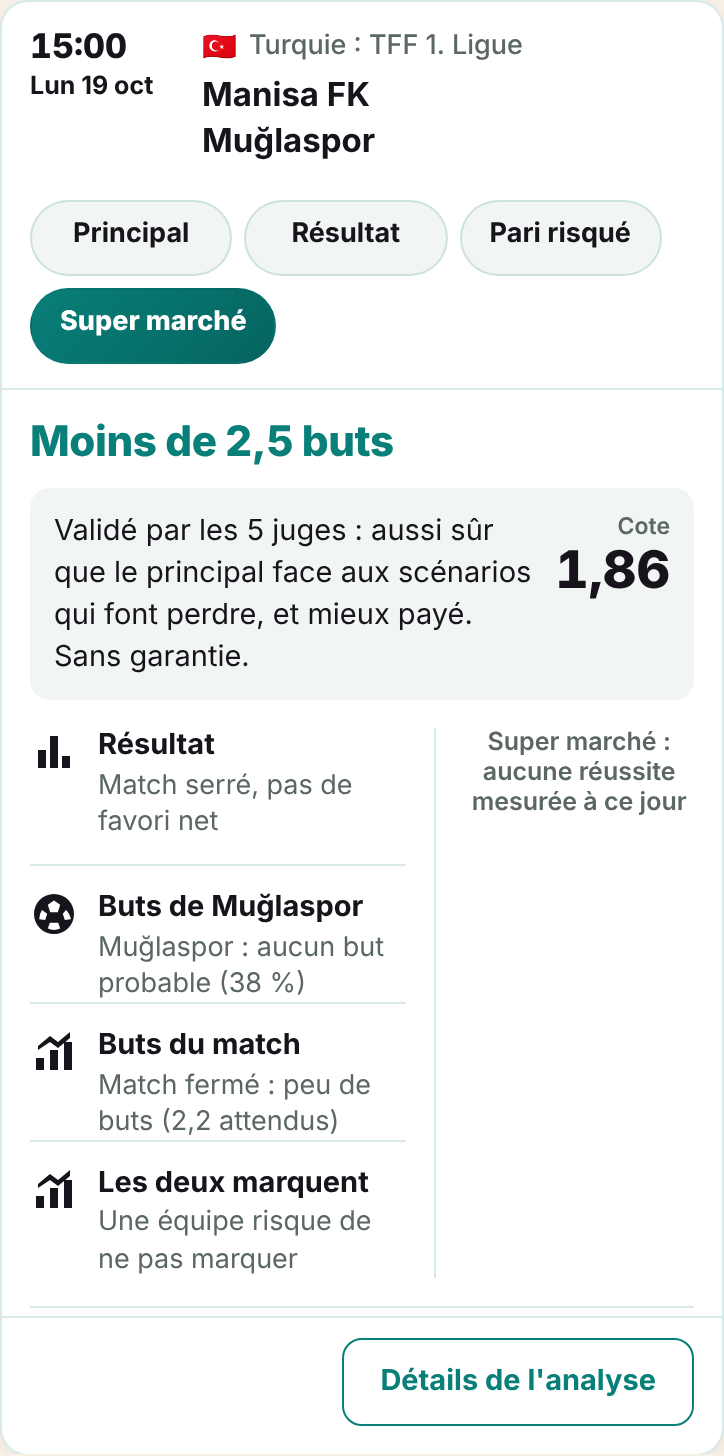
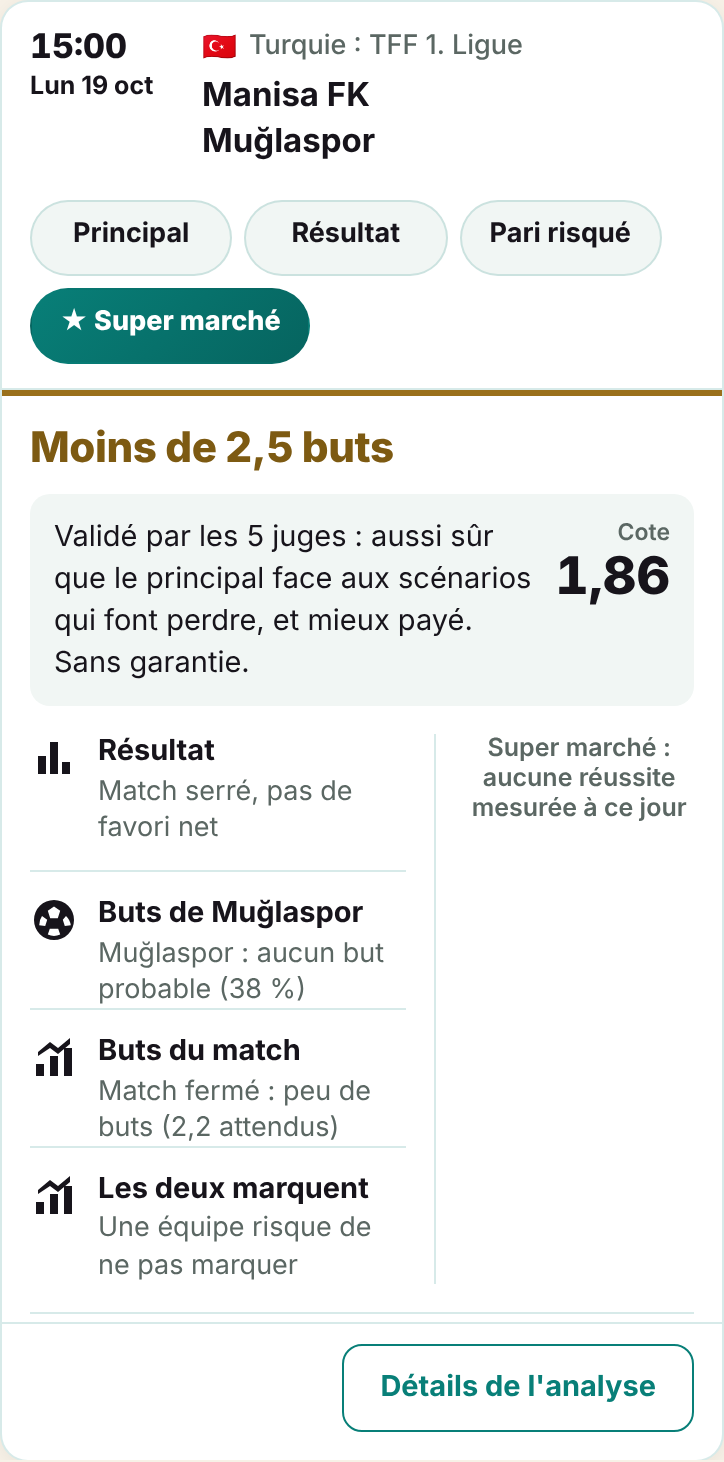
Combinés Betpawa lus au scraping et jugés avec leur vraie cote; super marché en onglet accentué dans la charte
Claude-Session: https://claude.ai/code/session_01V7B2fSi1ACxQoWjieq9GMG

diff --git a/archetype_comportement.js b/archetype_comportement.js
@@ -45,7 +45,7 @@ function construitJauge(probabilite, classe) {
 // Nom court de l'onglet : « Principal », puis la tendance du pari.
 function etiquette(s) {
   if (s.role === "principal") return "Principal";
-  if (s.role === "super") return "Super marché";
+  if (s.role === "super") return "★ Super marché";
   if (s.role === "risque") return "Pari risqué";
   const t = String(s.tendance || "");
   if (t === "Résultat") return "Résultat";
@@ -94,7 +94,7 @@ function construitPanneau(m, s, i, idPanneau, idOnglet) {
     `<div class="ax-preuve"><span class="ax-icone">${ICONE_TENDANCE[t.cle] || ICONES.forme}</span><div>` +
     `<span class="ax-preuve-titre">${echappeHtml(t.titre)}</span><span class="ax-preuve-texte">${echappeHtml(t.court)}</span></div></div>`).join("");
   const el = document.createElement("div");
-  el.className = `ax-panneau ax-${CLASSES[Math.min(i, CLASSES.length - 1)]}`;
+  el.className = `ax-panneau ax-${CLASSES[Math.min(i, CLASSES.length - 1)]}${s.role === "super" ? " ax-panneau-super" : ""}`;
   el.id = idPanneau; el.setAttribute("role", "tabpanel"); el.setAttribute("aria-labelledby", idOnglet); el.dataset.cle = String(i);
   el.innerHTML =
     `<h2 class="ax-marche">${echappeHtml(s.libelle)}</h2>` +
@@ -122,9 +122,9 @@ function construitDetails(m, idDetails) {
 // Il apparaît comme un onglet de plus de la carte (même présentation que « Principal », « Résultat »...).
 function avecSuperMarche(m) {
   const j = JUGES[m.match_id], o = j && j.super;
-  if (!o || o.type !== "simple" || !(o.jambes || []).length) return m;
+  if (!o || !(o.jambes || []).length) return m;
   const x = o.jambes[0];
-  return { ...m, selections: [...m.selections, { role: "super", libelle: x.libelle, cote: x.cote, tendance: "Super marché", raison: "Validé par les 5 juges : aussi sûr que le principal face aux scénarios qui font perdre, et mieux payé. Sans garantie." }] };
+  return { ...m, selections: [...m.selections, { role: "super", libelle: x.libelle, cote: x.cote, tendance: "Super marché", combine: o.type === "combine", raison: `${o.type === "combine" ? "Deux statistiques dans le même sens, cote du combiné trouvée sur Betpawa. " : ""}Validé par les 5 juges : aussi sûr que le principal face aux scénarios qui font perdre, et mieux payé. Sans garantie.` }] };
 }
 
 function construitCarte(m0) {
@@ -148,7 +148,7 @@ function construitCarte(m0) {
   const actifs = m.selections.map((s, i) => {
     const idO = `ax-onglet-${id}-${i}`, idP = `ax-panneau-${id}-${i}`;
     const bouton = document.createElement("button");
-    bouton.type = "button"; bouton.id = idO; bouton.className = `ax-onglet ax-${CLASSES[Math.min(i, CLASSES.length - 1)]}`;
+    bouton.type = "button"; bouton.id = idO; bouton.className = `ax-onglet ax-${CLASSES[Math.min(i, CLASSES.length - 1)]}${s.role === "super" ? " ax-super-onglet" : ""}`;
     bouton.setAttribute("role", "tab"); bouton.setAttribute("aria-controls", idP); bouton.dataset.cle = String(i);
     bouton.innerHTML = `<span>${echappeHtml(etiquette(s))}</span>`;
     onglets.appendChild(bouton);

diff --git a/pronostics_comportement.html b/pronostics_comportement.html
@@ -8,7 +8,7 @@
 <link rel="stylesheet" href="archetype.css?v=20261010v2idx">
 <link rel="stylesheet" href="af-barre.css">
 <link rel="stylesheet" href="af-pronostics.css">
-<link rel="stylesheet" href="af-comportement.css?v=20261019g">
+<link rel="stylesheet" href="af-comportement.css?v=20261019h">
   <link rel="stylesheet" href="af-date-navigation.css?v=20261016a">
 </head>
 <body class="ax-page af-fond af-v3 af-alpha">
@@ -40,7 +40,7 @@
   <p id="perf" class="ax-maj"></p>
   <main id="matches" class="ax-liste-matchs"></main>
 </div>
-<script src="archetype_comportement.js?v=20261019g"></script>
+<script src="archetype_comportement.js?v=20261019h"></script>
 <script src="drapeaux.js"></script>
 <script src="af-drapeaux-cartes.js"></script>
   <script src="af-date-navigation.js?v=20261016a"></script>

diff --git a/af-comportement.css b/af-comportement.css
@@ -6,3 +6,10 @@
 
 .af-alpha .ax-reussite { font-size: 1.8rem; line-height: 1; white-space: nowrap; color: var(--af-vert, #0f766e); }
 .af-alpha .ax-proba { text-align: center; }
+
+/* Super marché : même charte, accent « or » déjà présent dans les jetons de la carte (--ax-or), jamais le rose V2/V3. */
+.af-alpha .ax-onglet.ax-super-onglet { border: 2px solid var(--ax-or); }
+.af-alpha .ax-onglet.ax-super-onglet.ax-actif { background: var(--ax-or); border-color: var(--ax-or); color: #fff; }
+.af-alpha.theme-nuit .ax-onglet.ax-super-onglet.ax-actif { color: #1b1403; }
+.af-alpha .ax-panneau.ax-panneau-super .ax-marche { color: var(--ax-or-texte); }
+.af-alpha .ax-panneau.ax-panneau-super { border-top: 3px solid var(--ax-or); }

diff --git a/matrice_scenarios/juges.py b/matrice_scenarios/juges.py
@@ -71,6 +71,35 @@ def masse_perte(grille: np.ndarray, gagne: np.ndarray, scen: np.ndarray) -> floa
     return float((grille * scen * ~gagne).sum())
 
 
+def test_combine(groupe: str, selection: str):
+    """Marchés COMBINÉS de Betpawa (lus par parse_combines_betpawa.py) : « 1N|plus » = double chance 1N ET plus de la ligne, etc."""
+    import re
+    m = re.fullmatch(r"(dc|1x2)_(total_(\d+\.5)|btts)", groupe)
+    if not m or "|" not in selection:
+        return None
+    issue, autre = selection.split("|", 1)
+    r = {"dc": {"1N": lambda i, j: i >= j, "N2": lambda i, j: i <= j, "12": lambda i, j: i != j},
+         "1x2": {"1": lambda i, j: i > j, "N": lambda i, j: i == j, "2": lambda i, j: i < j}}[m.group(1)].get(issue)
+    if r is None:
+        return None
+    if m.group(3):
+        if autre not in ("plus", "moins"):
+            return None
+        ligne = float(m.group(3))
+        return lambda i, j: r(i, j) and ((i + j > ligne) if autre == "plus" else (i + j < ligne))
+    if autre not in ("Oui", "Non"):
+        return None
+    return lambda i, j: r(i, j) and ((i >= 1 and j >= 1) if autre == "Oui" else (i == 0 or j == 0))
+
+
+def libelle_combine(groupe: str, selection: str) -> str:
+    issue, autre = selection.split("|", 1)
+    nom = {"1N": "Domicile ne perd pas", "N2": "Extérieur ne perd pas", "12": "Pas de nul", "1": "Victoire domicile", "N": "Match nul", "2": "Victoire extérieur"}[issue]
+    if "total" in groupe:
+        return f"{nom} + {'plus' if autre == 'plus' else 'moins'} de {groupe.split('_')[-1].replace('.', ',')} buts"
+    return f"{nom} + les deux marquent : {'oui' if autre == 'Oui' else 'non'}"
+
+
 # ---------------------------------------------------------------- préparation d'un match
 
 def preparer(m: dict[str, Any], courbes: dict[str, list]) -> dict[str, Any] | None:
@@ -110,6 +139,22 @@ def preparer(m: dict[str, Any], courbes: dict[str, list]) -> dict[str, Any] | No
                    "j1": round(min(j1), 4) if j1 else None, "j4": round(min(j4), 4) if j4 else None,
                    "ecart_cote": round(x["probabilite"] - 1 / x["cote"], 4), "pertes_par_scenario": {k: round(v, 3) for k, v in s.items()},
                    "principal": x is principal, "_W": W}
+    for g, sels in (m.get("cotes_betpawa") or {}).items():          # combinés : seulement ceux dont la cote Betpawa est trouvée
+        if not isinstance(sels, dict) or not (g.startswith("dc_") or g.startswith("1x2_")):
+            continue
+        for sel, cote in sels.items():
+            t = test_combine(g, sel)
+            if t is None or not isinstance(cote, (int, float)) or cote < COTE_MIN:
+                continue
+            W = np.array([[bool(t(i, j)) for j in range(len(G))] for i in range(len(G))])
+            pj = float(G[W].sum())
+            sc_ = {k: masse_perte(G, W, v) for k, v in scen.items()}
+            j1 = 1 - max(sc_[k] for k in ("favori_creuse", "match_s_ouvre", "nul"))
+            j4 = 1 - max(sc_[k] for k in ("equipe_muette", "score_extreme") if k in sc_)
+            fam = "combine"
+            vus[frozenset([("combine", g, sel)])] = {"groupe": g, "selection": sel, "libelle": libelle_combine(g, sel), "famille": fam, "cote": float(cote),
+                   "probabilite": round(pj, 4), "p_calibree": round(pj, 4), "valeur": round(pj * float(cote) - 1, 4), "j1": round(j1, 4), "j4": round(j4, 4),
+                   "ecart_cote": round(pj - 1 / float(cote), 4), "pertes_par_scenario": {k: round(v, 3) for k, v in sc_.items()}, "principal": False, "_W": W, "combine": True}
     cands = list(vus.values())
     sc = m.get("score_final")
     if sc:
@@ -193,6 +238,10 @@ def super_marche(p: dict[str, Any], seuils: dict[str, Any]) -> dict[str, Any] | 
     sures = [c for c in cands if not c["dangereux"] and c["probabilite"] > 0]
     sure_ref = princ["sure"] if princ else 0.0          # se démarquer = aussi sûr que le pronostic d'alpha face aux scénarios, et mieux payé
     cote_ref = princ["cote"] if princ else COTE_MIN
+    reels = [c for c in cands if c.get("combine") and c["nb_juges"] == len(JUGES) and c["sure"] >= sure_ref and c["cote"] > cote_ref]
+    if reels:                                              # combiné réel (cote trouvée sur Betpawa) : passe avant tout
+        o = max(reels, key=lambda c: (c["valeur"], c["cote"]))
+        return {"type": "combine", "jambes": [jambe(o)], "cote_combine": o["cote"], "cote_min": COTE_MIN, "juges": o["juges"]}
     meilleur = None
     for a in range(len(sures) if COMBINES else 0):
         for b in range(a + 1, len(sures)):
@@ -216,7 +265,7 @@ def super_marche(p: dict[str, Any], seuils: dict[str, Any]) -> dict[str, Any] | 
         return {"type": "combine", "jambes": [jambe(A), jambe(B)], "cote_combine": "a_verifier", "cote_min": COTE_MIN,
                 "juges": {"contrarien": True, "premiers_principes": True, "expansionniste": True, "outsider": True, "executant": True}}
     ref = princ["valeur"] if princ else float("-inf")
-    autres = [c for c in cands if not c["principal"] and c["nb_juges"] == len(JUGES) and c["valeur"] > ref and c["sure"] >= sure_ref and c["cote"] > cote_ref]
+    autres = [c for c in cands if not c["principal"] and not c.get("combine") and c["nb_juges"] == len(JUGES) and c["valeur"] > ref and c["sure"] >= sure_ref and c["cote"] > cote_ref]
     if autres:
         o = max(autres, key=lambda c: (c["valeur"], c["cote"]))
         return {"type": "simple", "jambes": [jambe(o)], "cote_combine": None, "cote_min": COTE_MIN, "juges": o["juges"]}

diff --git a/parse_combines_betpawa.py b/parse_combines_betpawa.py
@@ -1,0 +1,112 @@
+"""parse_combines_betpawa.py -- marchés COMBINÉS de Betpawa (page en anglais, texte du navigateur automatisé), jamais lus avant le 19/10/2026.
+
+Titres lus (fin de match seulement) :
+  « Double Chance and Over/Under | Full Time »            -> groupe dc_total_<ligne>   , sélection « 1N|plus »
+  « 1X2 and Over/Under | Full Time »                      -> groupe 1x2_total_<ligne>  , sélection « 1|moins »
+  « Double Chance and Both Teams To Score | Full Time »   -> groupe dc_btts            , sélection « 1N|Oui »
+  « 1X2 and Both Teams To Score | Full Time »             -> groupe 1x2_btts           , sélection « 1|Non »
+Deux dispositions sont comprises, parce que la page a été vue sous les deux : tableau (colonnes 1X/12/X2, une ligne par « Over 1.5 »)
+ou lignes « 1X & Yes » suivies de leur cote. Un bloc illisible est ignoré : un combiné dont la cote n'est pas trouvée n'existe pas
+(règle de Patrick : marché suspendu). Ajoute uniquement des groupes NOUVEAUX : aucun marché existant n'est modifié.
+"""
+import re
+
+TITRES = {
+    "Double Chance and Over/Under | Full Time": ("dc_total", "dc"),
+    "1X2 and Over/Under | Full Time": ("1x2_total", "1x2"),
+    "Double Chance and Both Teams To Score | Full Time": ("dc_btts", "dc"),
+    "1X2 and Both Teams To Score | Full Time": ("1x2_btts", "1x2"),
+}
+DC = {"1X": "1N", "X2": "N2", "12": "12"}
+R1X2 = {"1": "1", "X": "N", "2": "2"}
+BTTS = {"Yes": "Oui", "No": "Non"}
+
+
+def _nombre(x):
+    if "." not in x and "," not in x:          # une cote s'affiche toujours avec ses décimales ; « 1 », « 2 » sont des étiquettes d'issue
+        return None
+    try:
+        v = float(x.replace(",", "."))
+        return v if v > 1 else None
+    except ValueError:
+        return None
+
+
+def _issue(lab, genre):
+    return (DC if genre == "dc" else R1X2).get(lab.strip("- ").strip())
+
+
+def _total(lab):
+    m = re.fullmatch(r"(Over|Under)\s+(\d+\.5)", lab.strip("- ").strip())
+    return (("plus" if m.group(1) == "Over" else "moins"), m.group(2)) if m else None
+
+
+def _bloc(lignes, i):
+    j = i + 1
+    while j < len(lignes) and " | " not in lignes[j]:
+        j += 1
+    return lignes[i + 1:j], j
+
+
+def _lit_total(bloc, genre, famille, out):
+    """Tableau : en-têtes d'issues, puis « Over 1.5 » suivi d'une cote par colonne (ou d'étiquette/cote en alternance)."""
+    k = 0
+    entetes = []
+    while k < len(bloc) and _nombre(bloc[k]) is None and _total(bloc[k]) is None:
+        if _issue(bloc[k], genre):
+            entetes.append(_issue(bloc[k], genre))
+        k += 1
+    while k < len(bloc):
+        t = _total(bloc[k])
+        if not t:
+            k += 1
+            continue
+        k += 1
+        vals = []
+        while k < len(bloc) and _total(bloc[k]) is None:
+            if _nombre(bloc[k]) is not None:
+                vals.append((None, _nombre(bloc[k])))
+            elif _issue(bloc[k], genre) and k + 1 < len(bloc) and _nombre(bloc[k + 1]) is not None:
+                vals.append((_issue(bloc[k], genre), _nombre(bloc[k + 1])))
+                k += 1
+            k += 1
+        for idx, (iss, v) in enumerate(vals):
+            iss = iss or (entetes[idx] if idx < len(entetes) and len(vals) == len(entetes) else None)
+            if iss:
+                out.setdefault(f"{famille}_{t[1]}", {})[f"{iss}|{t[0]}"] = v
+
+
+def _lit_btts(bloc, genre, famille, out):
+    """Lignes « 1X & Yes » + cote, ou tableau (en-têtes Yes/No, ligne « 1X » suivie d'une cote par colonne)."""
+    k, entetes = 0, []
+    while k < len(bloc):
+        m = re.fullmatch(r"(\S+)\s*&\s*(Yes|No)", bloc[k].strip("- ").strip())
+        if m and _issue(m.group(1), genre) and k + 1 < len(bloc) and _nombre(bloc[k + 1]) is not None:
+            out.setdefault(famille, {})[f"{_issue(m.group(1), genre)}|{BTTS[m.group(2)]}"] = _nombre(bloc[k + 1])
+            k += 2
+            continue
+        if bloc[k].strip("- ").strip() in BTTS and _nombre(bloc[k]) is None:
+            entetes.append(BTTS[bloc[k].strip("- ").strip()])
+        elif _issue(bloc[k], genre) and entetes:
+            vals = []
+            k += 1
+            while k < len(bloc) and _nombre(bloc[k]) is not None and len(vals) < len(entetes):
+                vals.append(_nombre(bloc[k])); k += 1
+            if len(vals) == len(entetes):
+                for e, v in zip(entetes, vals):
+                    out.setdefault(famille, {})[f"{_issue(bloc[k - len(vals) - 1], genre)}|{e}"] = v
+            continue
+        k += 1
+
+
+def parse_combines(texte):
+    lignes = [l.strip() for l in texte.splitlines() if l.strip()]
+    out, i = {}, 0
+    while i < len(lignes):
+        if lignes[i] in TITRES:
+            famille, genre = TITRES[lignes[i]]
+            bloc, i = _bloc(lignes, i)
+            (_lit_total if famille.endswith("total") else _lit_btts)(bloc, genre, famille, out)
+            continue
+        i += 1
+    return out

diff --git a/tests/test_juges.py b/tests/test_juges.py
@@ -94,3 +94,31 @@ def test_super_marche_refuse_jambe_dangereuse():
     A = cand(groupe="a", famille="a", selection="x", libelle="a", cote=1.1, sure=1, principal=False, _W=(i >= j))
     B = cand(groupe="b", famille="b", selection="x", libelle="b", cote=1.1, sure=1, principal=False, _W=(i + j < 3))
     assert J.super_marche(_p([A, B], G, {"nul": i == j}), {"q1_contrarien": 0, "q1_outsider": 0}) is None
+
+
+def test_combine_reel_passe_avant_le_simple():
+    import numpy as np
+    G = np.full((3, 3), 1 / 9)
+    i, j = np.meshgrid(range(3), range(3), indexing="ij")
+    pr = cand(groupe="1x2", famille="1x2", selection="1", libelle="1", cote=1.3, j1=0.8, j4=0.8, principal=True, _W=(i > j))
+    co = cand(groupe="dc_total_1.5", famille="combine", selection="1N|plus", libelle="DC+1,5", cote=1.96, j1=0.95, j4=0.95, principal=False, combine=True, valeur=0.2, _W=(i >= j))
+    r = J.super_marche(_p([pr, co], G, {"nul": i == j}), {"q1_contrarien": 0, "q1_outsider": 0})
+    assert r and r["type"] == "combine" and r["cote_combine"] == 1.96
+
+
+def test_combine_moins_paye_que_le_principal_est_ecarte():
+    import numpy as np
+    G = np.full((3, 3), 1 / 9)
+    i, j = np.meshgrid(range(3), range(3), indexing="ij")
+    pr = cand(groupe="1x2", famille="1x2", selection="1", libelle="1", cote=2.0, j1=0.8, j4=0.8, principal=True, _W=(i > j))
+    co = cand(groupe="dc_btts", famille="combine", selection="1N|Oui", libelle="x", cote=1.5, j1=0.95, j4=0.95, principal=False, combine=True, valeur=0.2, _W=(i >= j))
+    assert J.super_marche(_p([pr, co], G, {"nul": i == j}), {"q1_contrarien": 0, "q1_outsider": 0}) is None
+
+
+def test_combine_dangereux_est_ecarte():
+    import numpy as np
+    G = np.full((3, 3), 1 / 9)
+    i, j = np.meshgrid(range(3), range(3), indexing="ij")
+    pr = cand(groupe="1x2", famille="1x2", selection="1", libelle="1", cote=1.3, j1=0.8, j4=0.8, principal=True, _W=(i > j))
+    co = cand(groupe="dc_btts", famille="combine", selection="1N|Oui", libelle="x", cote=3.0, j1=0.1, j4=0.95, principal=False, combine=True, valeur=0.2, _W=(i >= j))
+    assert J.super_marche(_p([pr, co], G, {"nul": i == j}), {"q1_contrarien": 0.5, "q1_outsider": 0}) is None

diff --git a/tests/test_parse_combines_betpawa.py b/tests/test_parse_combines_betpawa.py
@@ -1,0 +1,69 @@
+"""Marchés combinés Betpawa : 3 lectures qui doivent réussir, 3 textes qui ne doivent rien produire."""
+from parse_combines_betpawa import parse_combines
+
+TABLEAU = """Double Chance and Over/Under | Full Time
+- 1X
+- 12
+- X2
+Under 1.5
+7.57
+6.68
+7.04
+Over 1.5
+1.96
+1.61
+1.71
+Both Teams To Score | Full Time
+Yes
+1.50
+"""
+PAIRES = """Double Chance and Both Teams To Score | Full Time
+1X & Yes
+2.30
+1X & No
+4.50
+X2 & Yes
+2.09
+1X2 and Both Teams To Score | Full Time
+1 & Yes
+4.67
+X & No
+4.45
+"""
+ALTERNE = """1X2 and Over/Under | Full Time
+Over 2.5
+1
+4.15
+X
+9.01
+2
+3.23
+"""
+
+
+def test_tableau_double_chance_total():
+    r = parse_combines(TABLEAU)
+    assert r["dc_total_1.5"]["1N|plus"] == 1.96 and r["dc_total_1.5"]["N2|moins"] == 7.04 and r["dc_total_1.5"]["12|plus"] == 1.61
+    assert "btts" not in r
+
+
+def test_paires_btts():
+    r = parse_combines(PAIRES)
+    assert r["dc_btts"] == {"1N|Oui": 2.30, "1N|Non": 4.50, "N2|Oui": 2.09}
+    assert r["1x2_btts"] == {"1|Oui": 4.67, "N|Non": 4.45}
+
+
+def test_disposition_alternee():
+    assert parse_combines(ALTERNE)["1x2_total_2.5"] == {"1|plus": 4.15, "N|plus": 9.01, "2|plus": 3.23}
+
+
+def test_texte_sans_combine():
+    assert parse_combines("1X2 | Full Time\n1\n2.95\nX\n3.44\n2\n2.33\n") == {}
+
+
+def test_titre_mi_temps_ignore():
+    assert parse_combines("Double Chance and Both Teams To Score | First Half\n1X & Yes\n4.81\n") == {}
+
+
+def test_cote_illisible_aucun_marche():
+    assert parse_combines("Double Chance and Over/Under | Full Time\n- 1X\nOver 1.5\nabc\n") == {}

diff --git a/scraper_betpawa.py b/scraper_betpawa.py
@@ -171,6 +171,14 @@ def meilleur_parsing(texte, domicile, exterieur):
             meilleur_nom, meilleur_resultat = nom, resultat
 
     print(f"  Format retenu : {meilleur_nom or 'aucun'} ({len(meilleur_resultat)} marché(s))")
+    if meilleur_resultat:                      # AJOUT 19/10/2026 : marchés combinés (groupes nouveaux, rien d'existant modifié)
+        try:
+            from parse_combines_betpawa import parse_combines
+            combines = parse_combines(texte)
+            meilleur_resultat.update({g: v for g, v in combines.items() if g not in meilleur_resultat})
+            print(f"  Combinés lus : {sum(len(v) for v in combines.values())} cote(s)")
+        except Exception as e:
+            print(f"  Combinés non lus : {e}")
     return meilleur_resultat
 
 

diff --git a/docs/MATRICE_SCENARIOS.md b/docs/MATRICE_SCENARIOS.md
@@ -206,3 +206,4 @@ Affiché en plus du pick principal : parmi les marchés qui **suivent la tendanc
 - Sortie : `data/comportement/juges.json` (étape de nuit dans `pipeline.yml`, `continue-on-error`). Super marché = un autre marché coté sur Betpawa qui passe les 5 juges, est aussi sûr que le principal d'alpha face aux scénarios et mieux payé ; affiché comme un onglet de la carte. Sinon rien. Les combinés (deux jambes dans le même sens) sont suspendus : leur cote Betpawa n'est pas collectée (`COMBINES = False` dans `juges.py`).
 - Backtest (`docs/juges_backtest.json`, coupe au 12/10) : le pronostic reste celui d'alpha (l'adaptation du marché faisait pire, donc désactivée) ; **aucune famille « super » n'est confirmée sur la 2e moitié** (réussite 56,9 %, rendement −10,7 %). Affichage = opportunité observée, sans garantie. La preuve viendra des pronostics gelés une fois réglés.
 - Tests : `tests/test_juges.py`. Captures : `docs/captures_juges/`.
+- Combinés Betpawa (19/10/2026) : `parse_combines_betpawa.py` lit « Double Chance / 1X2 and Over/Under » et « … and Both Teams To Score » (fin de match) en groupes nouveaux (`dc_total_<ligne>`, `1x2_total_<ligne>`, `dc_btts`, `1x2_btts`, sélection « 1N|plus ») ; branché dans `scraper_betpawa.meilleur_parsing`. Les juges les jugent avec leur vraie cote ; sans cote trouvée, pas de combiné (marché suspendu). Un combiné qui passe les 5 juges passe avant un marché simple. Les dispositions de page lues sont à confirmer sur le prochain passage de nuit (journal : « Combinés lus : N cote(s) »).
